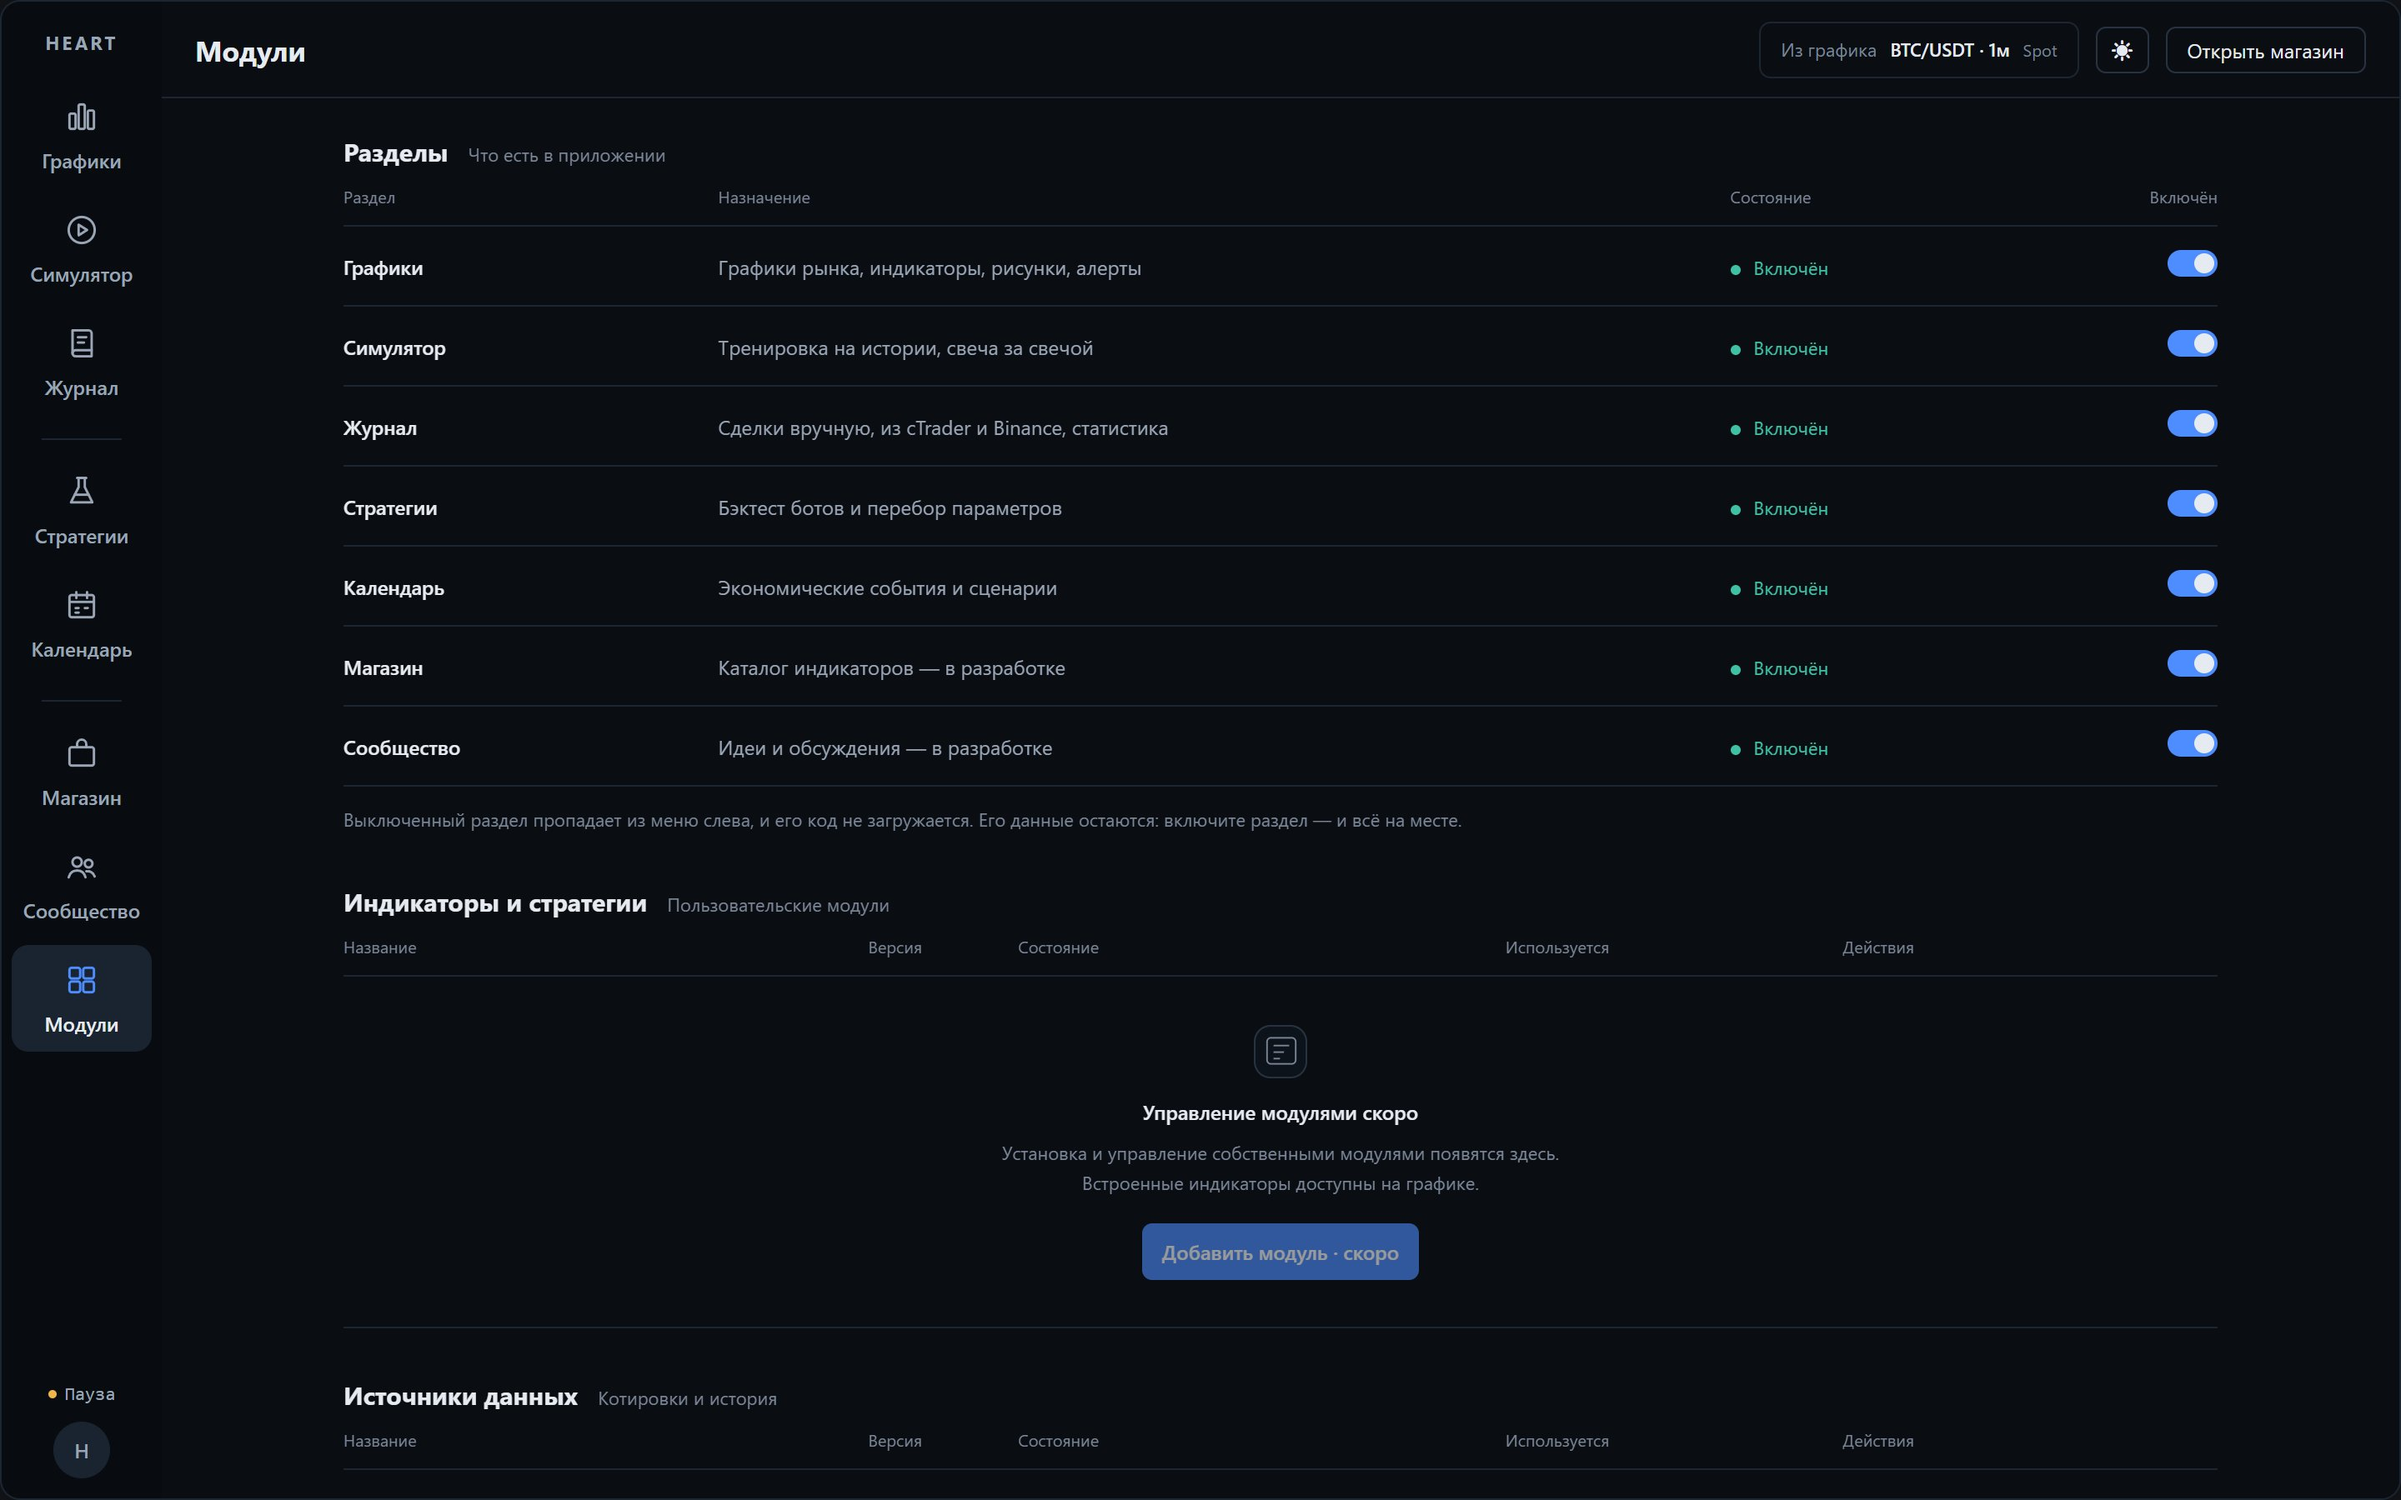
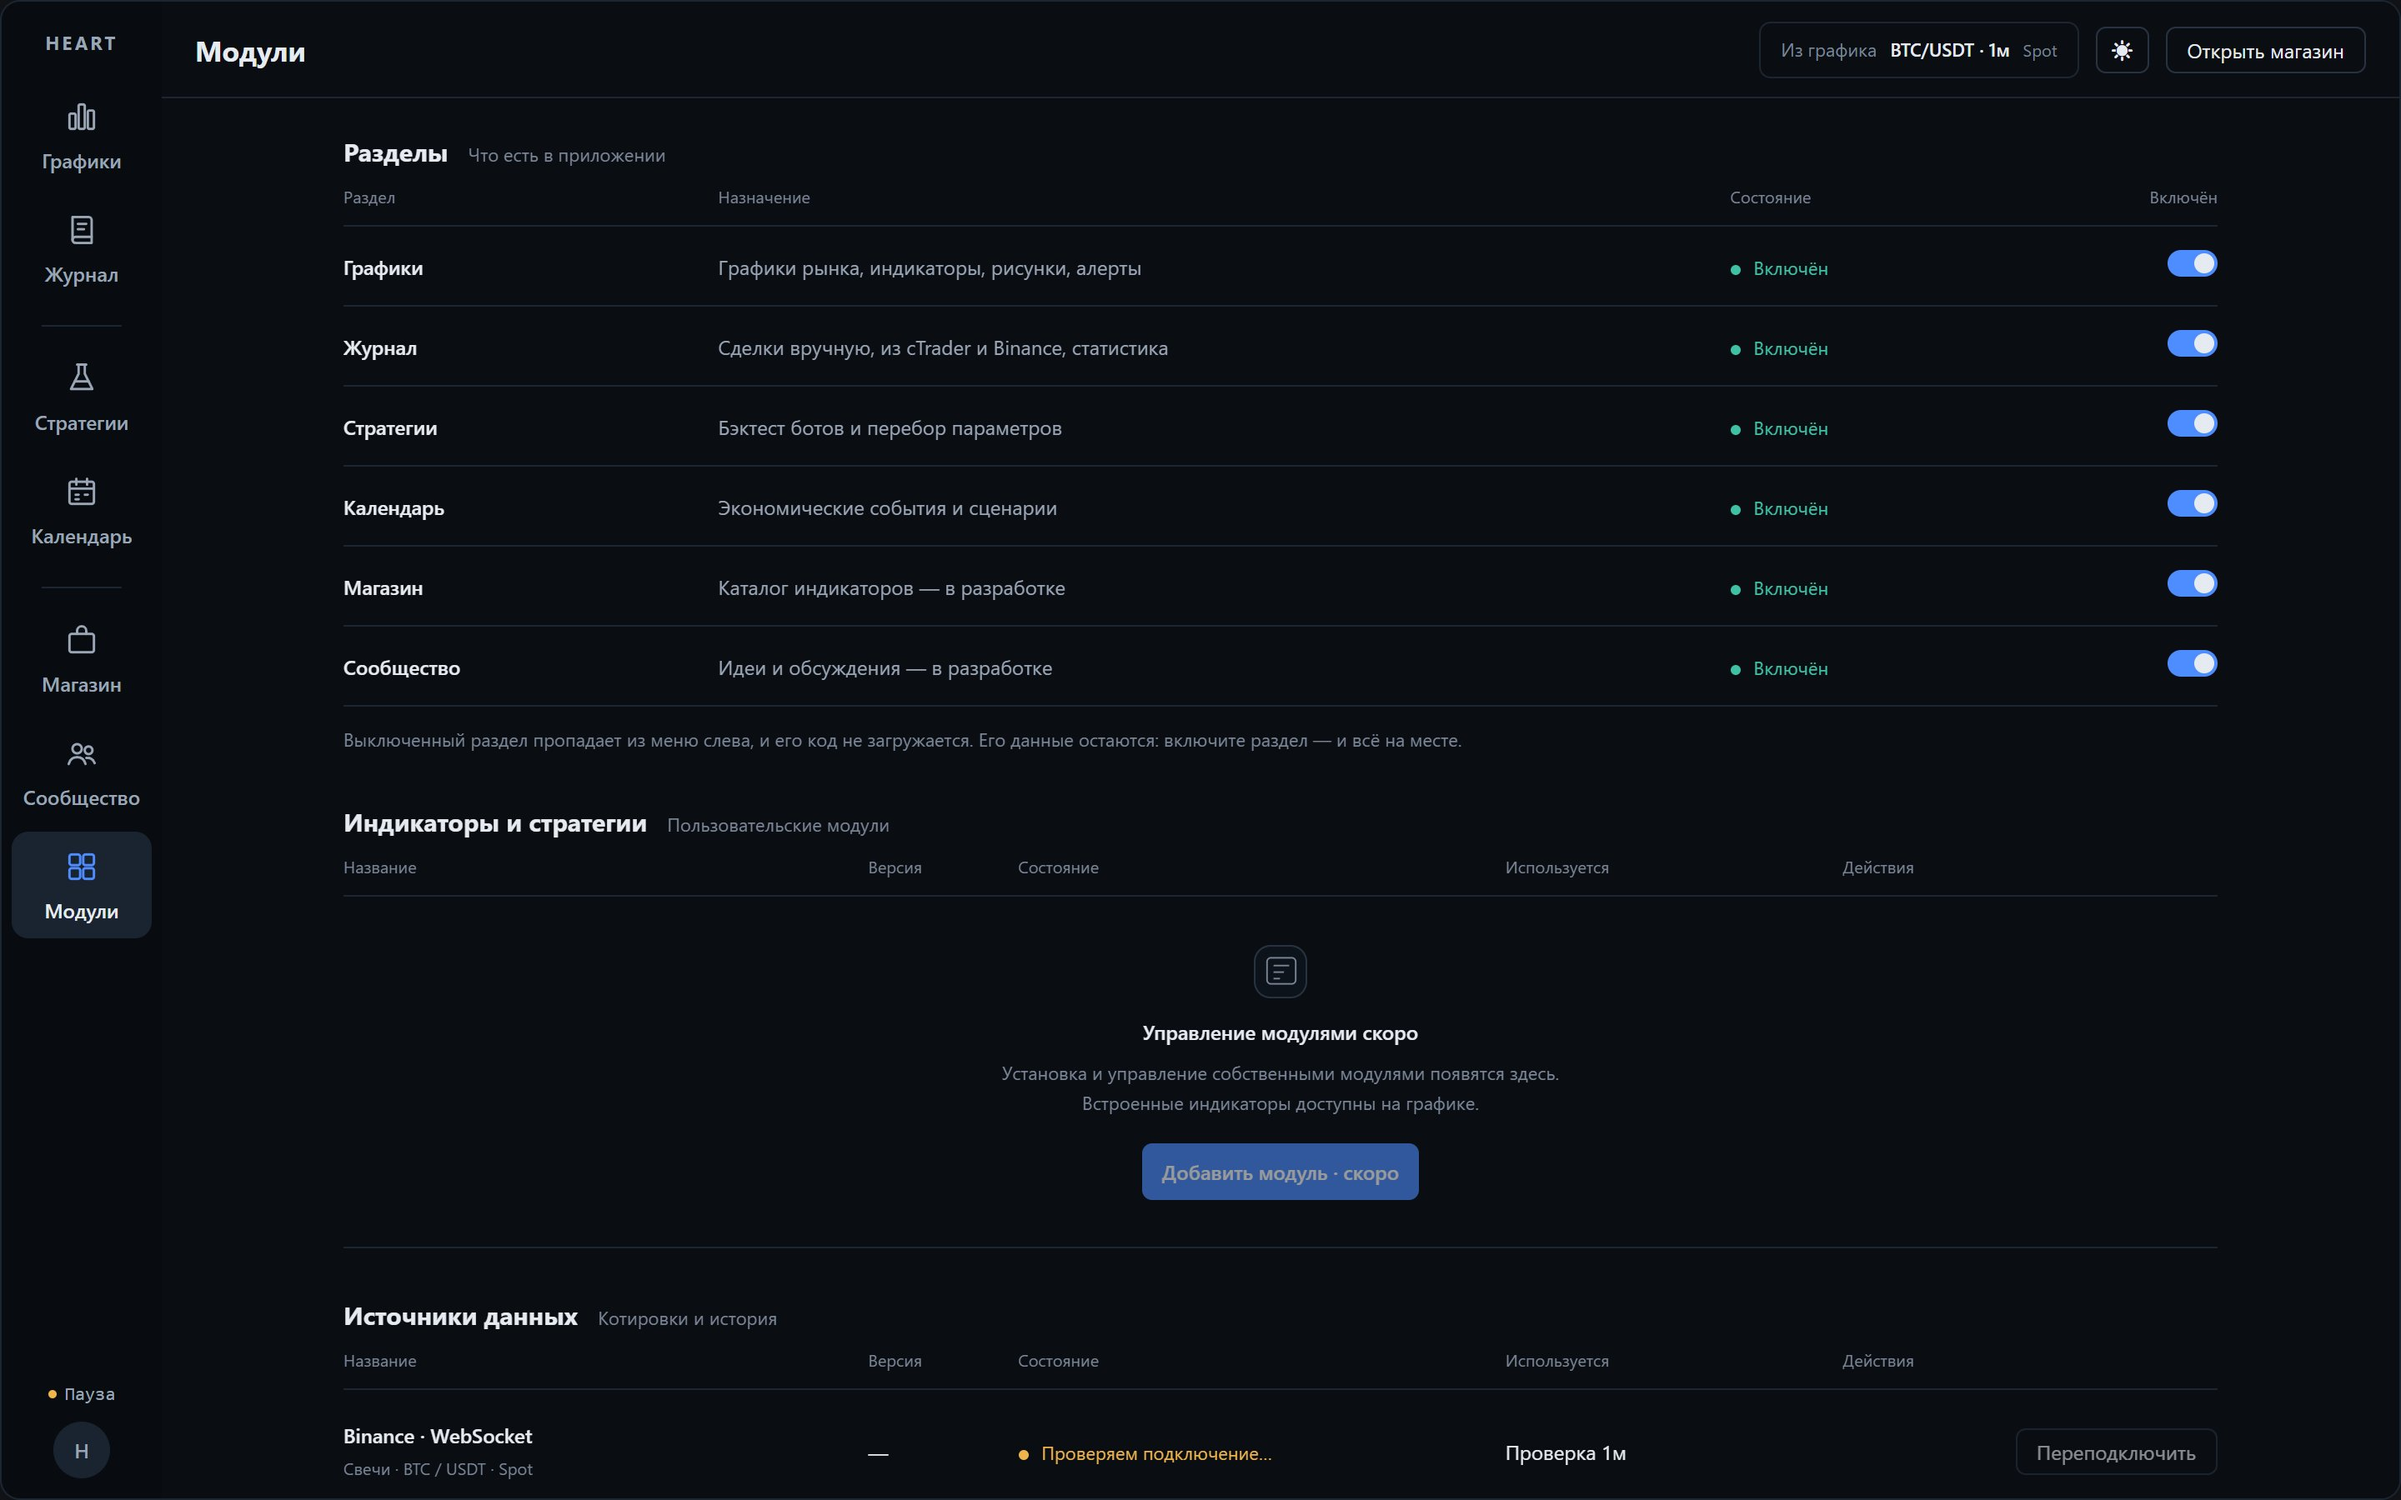
Showcase: without the simulator
Its section and shot are gone; the Modules shot is taken anew.

diff --git a/index.html b/index.html
@@ -168,7 +168,6 @@ dialog.zoom img { max-width: 100%; max-height: 100%; border-radius: 8px; }
       <li><a href="#builder">Конструктор</a></li>
       <li><a href="#code">Редактор кода</a></li>
       <li><a href="#journal">Журнал</a></li>
-      <li><a href="#simulator">Симулятор</a></li>
       <li><a href="#calendar">Календарь</a></li>
       <li><a href="#modules">Модули</a></li>
     </ol>
@@ -186,7 +185,7 @@ dialog.zoom img { max-width: 100%; max-height: 100%; border-radius: 8px; }
         <h1>HEART</h1>
         <p class="ver"><span>версия <b>0.4</b></span><span>октябрь 2026</span></p>
       </div>
-      <p class="lead">Торговый терминал, который работает в браузере. Графики с индикаторами и алертами, бэктест стратегий, боты на Python, журнал сделок, симулятор и экономический календарь в одном окне.</p>
+      <p class="lead">Торговый терминал, который работает в браузере. Графики с индикаторами и алертами, бэктест стратегий, боты на Python, журнал сделок и экономический календарь в одном окне.</p>
       <dl class="role">
         <dt>Проект</dt>
         <dd>Личный, без команды и заказчика: делаю для себя как трейдер.</dd>
@@ -277,18 +276,6 @@ dialog.zoom img { max-width: 100%; max-height: 100%; border-radius: 8px; }
       <figure>
         <button class="shot" type="button" aria-label="Открыть скриншот журнала целиком"><img src="shots/journal.jpg" width="2880" height="1800" alt="Журнал сделок: итоги месяца, кривая капитала, список сделок по дням и разбор сделки EUR/USD"></button>
         <figcaption><b>Данные на этом скриншоте — пример.</b> Счёт «Пример» и сделки созданы для витрины, настоящий счёт сюда не попадает.</figcaption>
-      </figure>
-    </section>
-
-    <section class="feature" id="simulator">
-      <header>
-        <p class="tag">Симулятор</p>
-        <h2>Тренировка на истории, свеча за свечой</h2>
-        <p>Выбираете инструмент, дату и период, и рынок открывается по одной свече. Будущее скрыто, поэтому график разбирается без подсказки: с индикаторами, рисунками и объёмами, как на обычном графике.</p>
-      </header>
-      <figure>
-        <button class="shot" type="button" aria-label="Открыть скриншот симулятора целиком"><img src="shots/simulator.jpg" width="2880" height="1490" alt="Симулятор: часовой график BTC/USDT за март 2025 года со скрытым будущим и шкалой шагов"></button>
-        <figcaption><b>Симулятор.</b> BTC/USDT, март 2025 года, открыта 121 свеча из 400. Заштрихованная зона справа — будущее, которого пока не видно.</figcaption>
       </figure>
     </section>
 

diff --git a/README.md b/README.md
@@ -1,6 +1,6 @@
 # HEART
 
-**Торговый терминал, который работает в браузере.** Графики с индикаторами и алертами, бэктест стратегий, боты на Python, журнал сделок, симулятор и экономический календарь в одном окне.
+**Торговый терминал, который работает в браузере.** Графики с индикаторами и алертами, бэктест стратегий, боты на Python, журнал сделок и экономический календарь в одном окне.
 
 **Страница проекта:** https://exswat.github.io/heart-terminal/
 
@@ -54,12 +54,6 @@
 ![Журнал сделок: итоги месяца, кривая капитала и разбор сделки](shots/journal.jpg)
 
 > Данные на этом скриншоте — пример. Счёт «Пример» и сделки созданы для витрины.
-
-### Симулятор
-
-Рынок открывается по одной свече, будущее скрыто: график разбирается без подсказки, с индикаторами, рисунками и объёмами.
-
-![Симулятор: BTC/USDT, март 2025 года, скрытое будущее](shots/simulator.jpg)
 
 ### Экономический календарь
 
